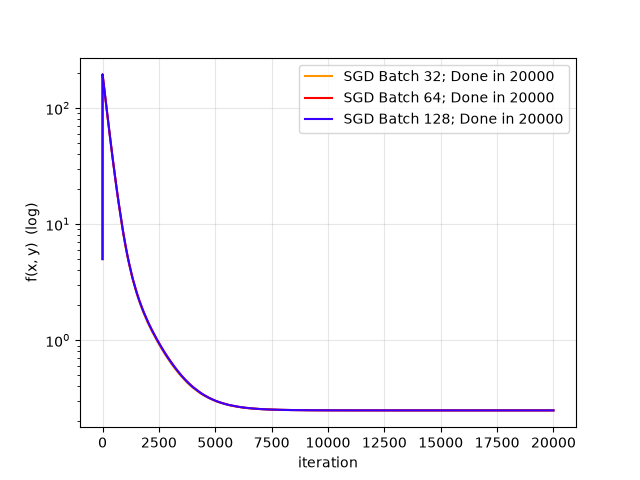
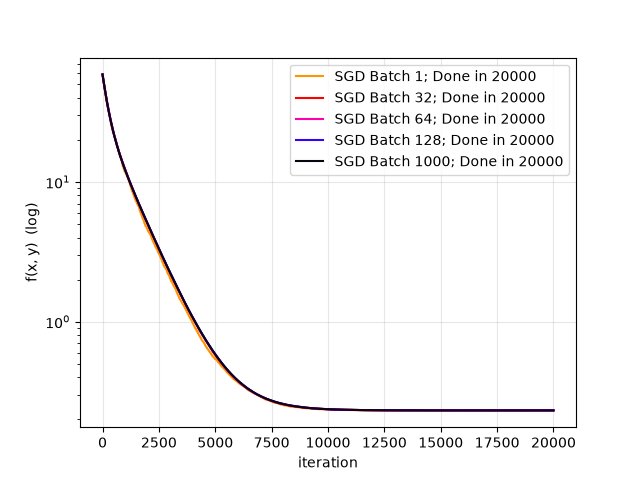
W5D3: fixed rng and added a couple more test cases

diff --git a/phase_1_math/week_5/d3_stochastic_gd.py b/phase_1_math/week_5/d3_stochastic_gd.py
@@ -6,7 +6,7 @@ import matplotlib.pyplot as plt
 rng = np.random.default_rng()
 
 def sample_func(x):
-    return (3*x) + 2 + np.random.normal(0.0, 0.5, size=len(x)) 
+    return (3*x) + 2 + rng.normal(0.0, 0.5, size=len(x)) 
 
 def eval_loss(point, dataset):
     x = dataset[:, 0]
@@ -26,13 +26,12 @@ def SGD(starting_params, dataset, lr=0.001, batch=64, n_iters=1000, tol=0.2):
     theta_t = starting_params
     step_history = [theta_t]
     curr_avg_loss = 5.0
-    loss_history = [curr_avg_loss]
+    loss_history = []
     t = 0
     
     while (curr_avg_loss > tol) and t < n_iters:
 
-        batch_samples_idx = random.sample(range(len(dataset)), batch)
-        batch_sample = [dataset[i] for i in batch_samples_idx]
+        batch_sample = rng.choice(dataset, size=batch, replace=False)
         
         # update params based on batches and our predefined partials
         grad_batch = []
@@ -82,13 +81,17 @@ def test():
     
     init_params = rng.uniform(5.0, 20.0, size=2)
     
+    step_history_1, loss_history_1, num_of_iters_1 = SGD(init_params, dataset, batch=1, n_iters=20000)
     step_history_32, loss_history_32, num_of_iters_32 = SGD(init_params, dataset, batch=32, n_iters=20000)
     step_history_64, loss_history_64, num_of_iters_64 = SGD(init_params, dataset, batch=64, n_iters=20000)
     step_history_128, loss_history_128, num_of_iters_128 = SGD(init_params, dataset, batch=128, n_iters=20000)
+    step_history_1000, loss_history_1000, num_of_iters_1000 = SGD(init_params, dataset, batch=1000, n_iters=20000)
 
-    ax_loss_plot = plot(step_history_32, loss_history_32, dataset, label=f"SGD Batch 32; Done in {num_of_iters_32}")
-    plot(step_history_64, loss_history_64, dataset, ax=ax_loss_plot, color="#ff0000", label=f"SGD Batch 64; Done in {num_of_iters_64}")
+    ax_loss_plot = plot(step_history_1, loss_history_1, dataset, label=f"SGD Batch 1; Done in {num_of_iters_1}")
+    plot(step_history_32, loss_history_32, dataset, ax=ax_loss_plot, color="#ff0000", label=f"SGD Batch 32; Done in {num_of_iters_32}")
+    plot(step_history_64, loss_history_64, dataset, ax=ax_loss_plot, color="#ff00ae", label=f"SGD Batch 64; Done in {num_of_iters_64}")
     plot(step_history_128, loss_history_128, dataset, ax=ax_loss_plot, color="#3700ff", label=f"SGD Batch 128; Done in {num_of_iters_128}")
+    plot(step_history_1000, loss_history_1000, dataset, ax=ax_loss_plot, color="#090610", label=f"SGD Batch 1000; Done in {num_of_iters_1000}")
     ax_loss_plot.figure.savefig("./figs/D3_SGD_convergence_plot.png")
 
 
